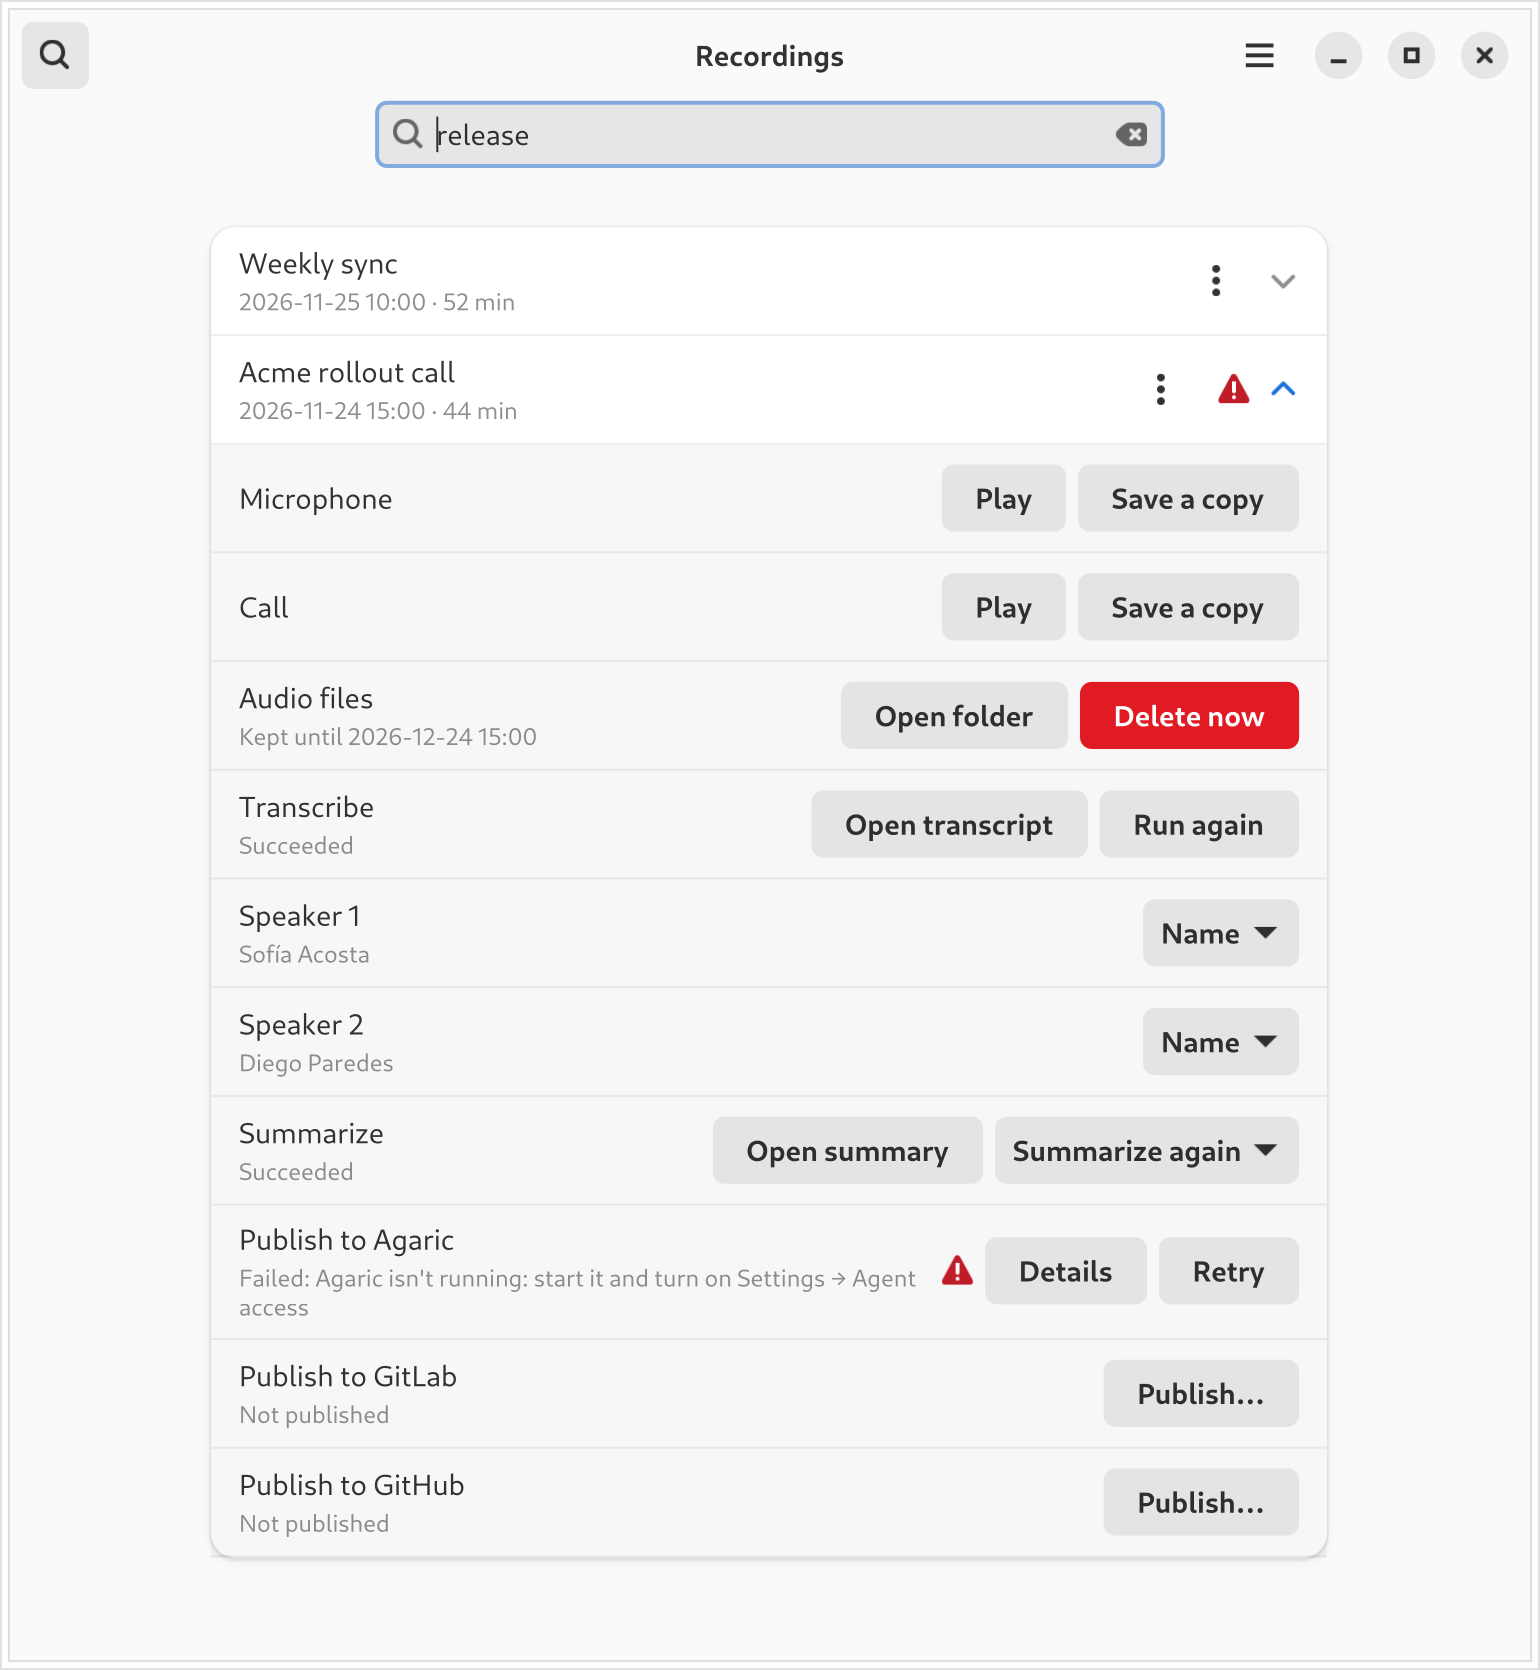
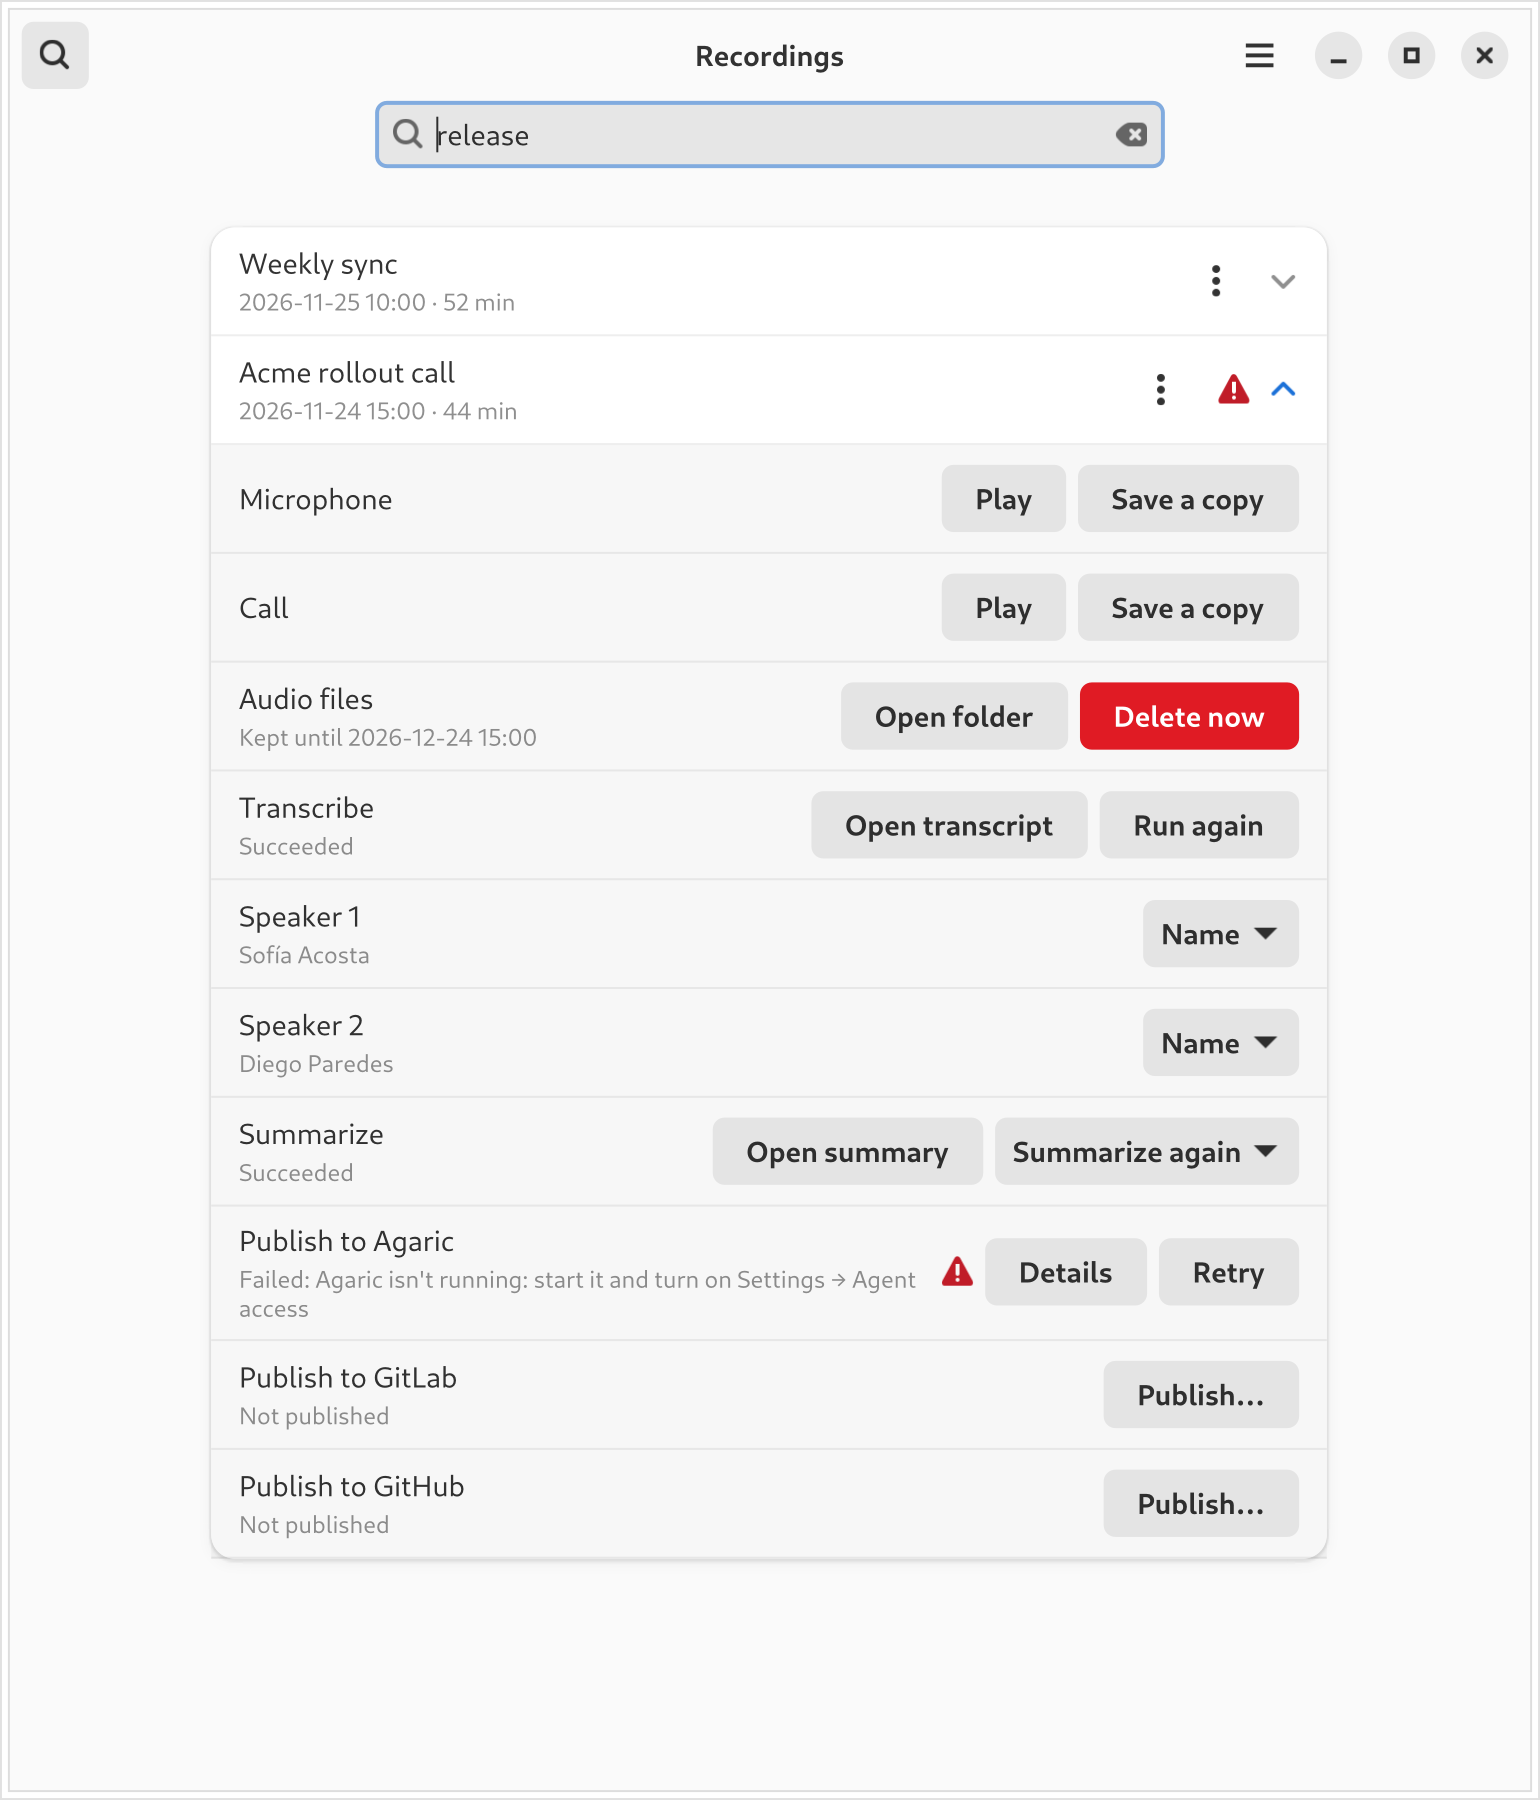
docs: render the README's side-by-side screenshots at one size (#91)
recordings.png and search.png sit next to each other in the README at the same
width, but search.png was shorter, so a renderer that fits each image to its
height (the GitHub mobile app) drew them at different sizes. Both now come from
one window size.

Claude-Session: https://claude.ai/code/session_01QBcqRd1d8aCWDygXdyZyC6

diff --git a/scripts/screenshots.py b/scripts/screenshots.py
@@ -230,6 +230,9 @@ def descendants(widget: Gtk.Widget) -> Iterator[Gtk.Widget]:
         child = child.get_next_sibling()
 
 
+SIDE_BY_SIDE = (780, 910)
+
+
 def open_window(width: int, height: int) -> window.HistoryWindow:
     shown = window.HistoryWindow()
     shown.set_default_size(width, height)
@@ -261,7 +264,8 @@ def main(out: Path) -> None:
     gtk_settings.props.gtk_enable_animations = False
     out.mkdir(parents=True, exist_ok=True)
 
-    shown = open_window(780, 910)
+    # The README shows these two side by side: one size, so every renderer draws them alike.
+    shown = open_window(*SIDE_BY_SIDE)
     row(shown, "Weekly sync").set_expanded(True)
     save(shown, out / "recordings.png")
     close(shown)
@@ -272,7 +276,7 @@ def main(out: Path) -> None:
     close(shown)
 
     # A search for a word two transcripts hold, and the failed run of one of them.
-    shown = open_window(780, 845)
+    shown = open_window(*SIDE_BY_SIDE)
     shown.search_bar.set_search_mode(True)
     shown.search.set_text("release")
     wait_until(lambda: len(shown.matching) == 2)  # noqa: PLR2004 - the two that say it
